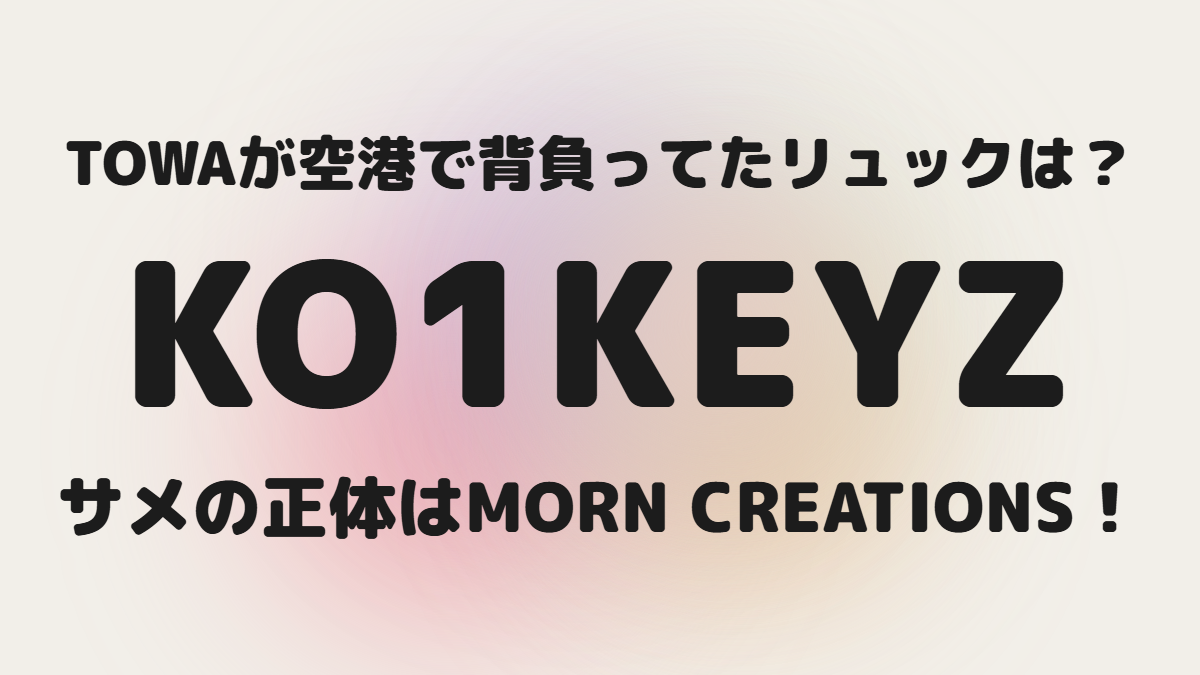
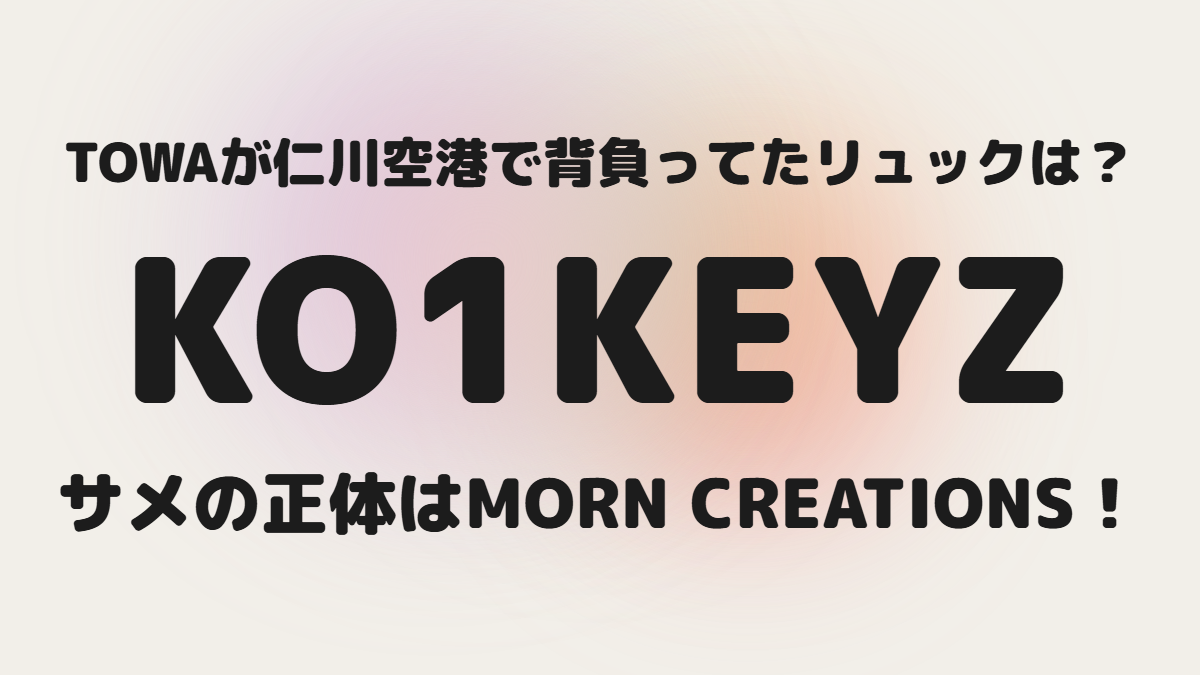
TOWA shark backpack: add Incheon Airport 2026-07-31 sighting context (JP/KR/EN drafts)

diff --git a/update_towa_airport_shark_backpack_sighting.py b/update_towa_airport_shark_backpack_sighting.py
@@ -1,0 +1,91 @@
+# -*- coding: utf-8 -*-
+"""Add the concrete Incheon Airport (2026-07-31) sighting context to the
+TOWA shark backpack drafts (JP 12193 / KR 12197 / EN 12198)."""
+import json, base64, os
+from pathlib import Path
+import requests
+
+ROOT = Path(__file__).parent
+
+
+def load_env(path):
+    env = {}
+    if path.exists():
+        for line in path.read_text(encoding="utf-8").splitlines():
+            line = line.strip()
+            if not line or line.startswith("#") or "=" not in line:
+                continue
+            k, v = line.split("=", 1)
+            env[k.strip()] = v.strip()
+    return env
+
+
+ENV = {**load_env(ROOT / ".env"), **os.environ}
+WP_URL = ENV["WP_KOIKEYS_URL"].rstrip("/")
+AUTH = base64.b64encode(f"{ENV['WP_KOIKEYS_USERNAME']}:{ENV['WP_KOIKEYS_APP_PASSWORD']}".encode()).decode()
+H = {"Authorization": f"Basic {AUTH}"}
+HJSON = {**H, "Content-Type": "application/json"}
+
+EDITS = {
+    12193: {  # JP
+        "title": "TOWAが仁川空港で背負ってたサメリュックのブランドは？",
+        "replacements": [
+            ("KO1KEYZ(コイキーズ)のTOWA(濱田永遠)さんが、空港で移動する姿を見かけたというXの投稿があり、そのとき背負っていた大きめのリュックが話題になりました。",
+             "KO1KEYZ(コイキーズ)のTOWA(濱田永遠)さんが、2026年7月末に仁川(インチョン)空港で目撃された際に背負っていた大きめのリュックが話題になりました。"),
+            ("<h2 class=\"wp-block-heading\">TOWAが空港で背負っていたのはどんなリュック？</h2>",
+             "<h2 class=\"wp-block-heading\">TOWAが仁川空港で背負っていたのはどんなリュック？</h2>"),
+            ("<p>きっかけは、空港でTOWAさんを見かけたというXの投稿でした。<br>\n移動中のオフショットで、黒くて大きなリュックを背負っている姿が写っており、そのインパクトのある見た目からどこのバッグなのか気になるファンが多かったようです。<br>\n本人や運営からの公式なアイテム紹介ではありませんが、移動中に背負っていたことから、衣装ではなく私物とみられます。</p>",
+             "<p>きっかけは、2026年7月31日に仁川(インチョン)空港でKO1KEYZの姿をとらえたファンの動画がXに投稿されたことでした。<br>\n黒いタンクトップにキャップというラフな装いのTOWAさんが、黒くて大きなリュックを背負って歩く様子が写っており、そのインパクトのある見た目からどこのバッグなのか気になるファンが多かったようです。<br>\n本人や運営からの公式なアイテム紹介ではありませんが、移動中に背負っていたことから、衣装ではなく私物とみられます。</p>"),
+            ("&#10003; TOWAが空港で背負っていたのはMORN CREATIONSの「シャークバックパック」<br>",
+             "&#10003; TOWAが2026年7月末に仁川空港で背負っていたのはMORN CREATIONSの「シャークバックパック」<br>"),
+        ],
+        "summary": "KO1KEYZ・TOWAが2026年7月末に仁川空港で背負っていた大きめのリュックは、香港のバッグブランドMORN CREATIONSの「シャークバックパック」Lサイズ(ブラック)とみられます。サメの口をかたどった定番モデルで、参考価格は14,300円(税込)です。",
+    },
+    12197: {  # KR
+        "title": "TOWA가 인천공항에서 멨던 상어 백팩 브랜드는?",
+        "replacements": [
+            ("KO1KEYZ의 TOWA(하마다 토와)가 공항에서 이동하는 모습을 봤다는 X 게시물이 올라오면서, 그때 메고 있던 큼직한 백팩이 화제가 되었습니다.",
+             "KO1KEYZ의 TOWA(하마다 토와)가 2026년 7월 말 인천공항에서 목격됐을 때 메고 있던 큼직한 백팩이 화제가 되었습니다."),
+            ("<h2 class=\"wp-block-heading\">TOWA가 공항에서 멘 것은 어떤 백팩?</h2>",
+             "<h2 class=\"wp-block-heading\">TOWA가 인천공항에서 멘 것은 어떤 백팩?</h2>"),
+            ("<p>계기는 공항에서 TOWA를 봤다는 X 게시물이었습니다.<br>\n이동 중의 오프숏으로, 검고 커다란 백팩을 메고 있는 모습이 찍혀 있어, 그 임팩트 있는 겉모습 때문에 어디 가방인지 궁금해하는 팬이 많았던 것 같습니다.<br>\n본인이나 운영 측의 공식 아이템 소개는 아니지만, 이동 중에 메고 있었던 점에서 무대 의상이 아닌 사물로 보입니다.</p>",
+             "<p>계기는 2026년 7월 31일 인천공항에서 KO1KEYZ의 모습을 담은 팬 영상이 X에 올라온 것이었습니다.<br>\n검은 탱크톱에 캡을 쓴 편안한 차림의 TOWA가 검고 커다란 백팩을 메고 걷는 모습이 찍혀 있어, 그 임팩트 있는 겉모습 때문에 어디 가방인지 궁금해하는 팬이 많았던 것 같습니다.<br>\n본인이나 운영 측의 공식 아이템 소개는 아니지만, 이동 중에 메고 있었던 점에서 무대 의상이 아닌 사물로 보입니다.</p>"),
+            ("&#10003; TOWA가 공항에서 메고 있던 것은 MORN CREATIONS의 '샤크 백팩'<br>",
+             "&#10003; TOWA가 2026년 7월 말 인천공항에서 메고 있던 것은 MORN CREATIONS의 '샤크 백팩'<br>"),
+        ],
+        "summary": "KO1KEYZ TOWA가 2026년 7월 말 인천공항에서 메고 있던 큼직한 백팩은 홍콩 가방 브랜드 MORN CREATIONS의 '샤크 백팩' L 사이즈(블랙)로 보입니다. 상어 입을 본뜬 스테디셀러 모델로 참고가는 14,300엔(세금 포함)입니다.",
+    },
+    12198: {  # EN
+        "title": "What Brand Is TOWA's Shark Backpack from Incheon Airport?",
+        "replacements": [
+            ("<p>A post on X said KO1KEYZ's TOWA (Towa Hamada) was spotted moving through an airport, and the oversized backpack he had on drew a lot of attention.",
+             "<p>The oversized backpack KO1KEYZ's TOWA (Towa Hamada) had on when he was spotted at Incheon Airport in late July 2026 drew a lot of attention."),
+            ("<p>It started with a post on X from someone who saw TOWA at an airport.<br>\nThe candid travel shot showed him carrying a big black backpack, and its bold look had a lot of fans wondering which brand it was.<br>\nThere's no official item note from TOWA or the agency, but since he was carrying it while traveling, it looks like a personal item rather than a stage piece.</p>",
+             "<p>It started with a fan video posted to X on July 31, 2026, showing KO1KEYZ walking through Incheon Airport.<br>\nTOWA, dressed down in a black tank top and a cap, was filmed walking with a big black backpack, and its bold look had a lot of fans wondering which brand it was.<br>\nThere's no official item note from TOWA or the agency, but since he was carrying it while traveling, it looks like a personal item rather than a stage piece.</p>"),
+            ("&#10003; The bag TOWA carried at the airport is MORN CREATIONS' \"Shark Backpack\"<br>",
+             "&#10003; The bag TOWA carried at Incheon Airport in late July 2026 is MORN CREATIONS' \"Shark Backpack\"<br>"),
+        ],
+        "summary": "KO1KEYZ's TOWA was spotted carrying an oversized backpack at Incheon Airport in late July 2026. It's the Shark Backpack (L size, black) from the Hong Kong brand MORN CREATIONS, a shark-mouth staple that lists at 14,300 yen (tax incl.).",
+    },
+}
+
+for pid, spec in EDITS.items():
+    cur = requests.get(f"{WP_URL}/wp-json/wp/v2/posts/{pid}?context=edit", headers=H)
+    cur.raise_for_status()
+    content = cur.json()["content"]["raw"]
+    for old, new in spec["replacements"]:
+        if old not in content:
+            raise SystemExit(f"[{pid}] pattern not found:\n{old[:120]}")
+        content = content.replace(old, new, 1)
+    payload = {
+        "status": "draft",
+        "title": spec["title"],
+        "content": content,
+        "meta": {"jetpack_publicize_message": spec["summary"]},
+    }
+    r = requests.post(f"{WP_URL}/wp-json/wp/v2/posts/{pid}", headers=HJSON,
+                      data=json.dumps(payload).encode("utf-8"))
+    r.raise_for_status()
+    print(f"updated {pid}: {r.json()['title']['raw']}")
+
+print("DONE")
